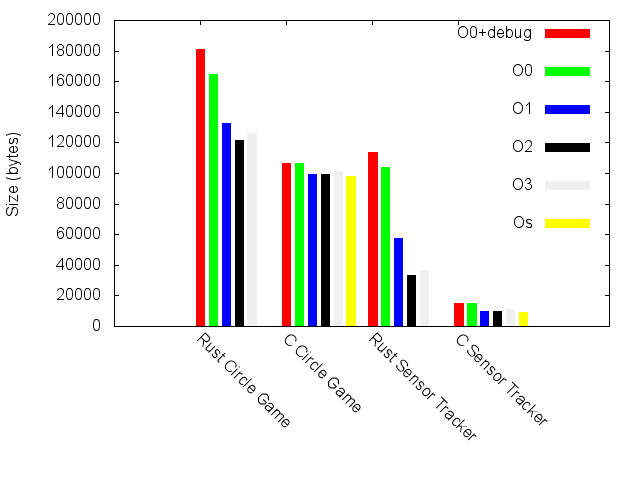
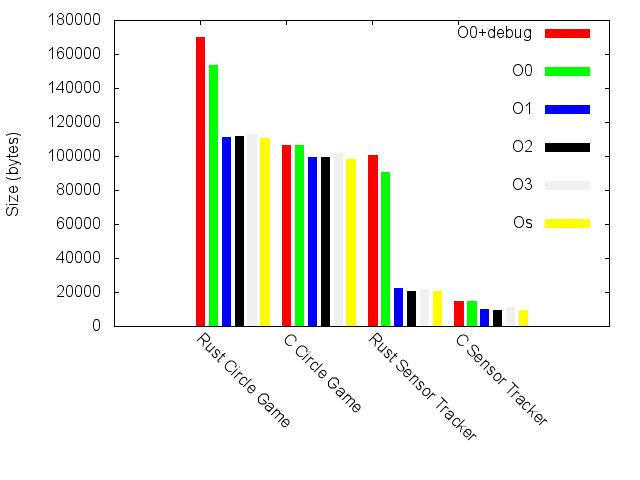
Updated size section with new sizes

diff --git a/results/code-size.tex b/results/code-size.tex
@@ -44,21 +44,26 @@ The parameters used are shown in \autoref{tab:size:params} with their effect.
   \label{tab:size:params}
 \end{table}
 
-Each program in this section is compiled with 5 different settings as given by \autoref{tab:size:settings}.
+Each program in this section is compiled with 6 different settings as given by \autoref{tab:size:settings}.
 \begin{table}[H]
   \centering
-  \begin{tabular}{l|l|l|l|l|l}
-    & \textbf{1} & \textbf{2} & \textbf{3} & \textbf{4} & \textbf{5} \\
+  \begin{tabular}{l|l|l|l|l|l|l}
+    & \textbf{1} & \textbf{2} & \textbf{3} & \textbf{4} & \textbf{5} & \textbf{6} \\
     \hline
-    debug            & true  & false & false & false & false \\
-    debug-assertions & true  & false & false & false & false \\
-    opt-level        & 0     & 0     & 1     & 2     & 2     \\
-    lto              & false & true  & true  & true  & true  \\
+    debug            & true  & false & false & false & false & false \\
+    debug-assertions & true  & false & false & false & false & false \\
+    opt-level        & 0     & 0     & 1     & 2     & 3     & 3     \\
+    lto              & false & true  & true  & true  & true  & true  \\
+    (c code Os)      & false & false & false & false & false & true \\
     \hline
   \end{tabular}
   \caption{Compilation settings}
   \label{tab:size:settings}
 \end{table}
+
+Notice that for the 6th optimization setting, the underlying {\C} sources is compiled with the Os flag.
+For the rest of the settings the same optimization level is used for both the {\rust} and the {\C} code.
+This 6th optimization setting is only used when compiling binaries.
 
 \subsection{Libraries}
 
@@ -137,7 +142,7 @@ As explained in \autoref{sec:impl:booting} {\rust} does not require any addition
 This is evident in \autoref{fig:size:bin:small} where the binaries are the same size when applying optimizations.
 The debug and unoptimized {\rust} build is 10x lager compared to the optimized version.
 
-\autoref{tab:size:c-vs-rust} compares the size of the smallest {\C} and {\rust} binaries for each of the program evaluated.
+\autoref{tab:size:c-vs-rust} compares the size of the smallest {\C} and {\rust} binaries for each of the evaluated programs.
 The number reported is generated by dividing the size of the {\rust} binary by the size of the {\C} binary, giving the factor of witch the {\rust} version is larger than the {\C} version.
 
 \begin{table}[H]
@@ -146,7 +151,7 @@ The number reported is generated by dividing the size of the {\rust} binary by t
     \hline
     Circle Game & Sensor Tracker & Minimal Main \\
     \hline
-    1.22x & 3.57x & 1.03x \\
+    1.22x & 2.20x & 1.03x \\
     \hline
   \end{tabular}
   \caption{{\rust} code size relative to {\C}}
@@ -154,6 +159,37 @@ The number reported is generated by dividing the size of the {\rust} binary by t
 \end{table}
 
 We see from \autoref{tab:size:c-vs-rust} that both the Circle Game and the Minimal Main  {\rust} binaries come quite close to the {\C} binaries in size.
+
+To see which protions of the {\rust} code that make the binary size increase, we now present a break down of the Sensor Tracker builds optimized for size.
+
+\begin{table}[H]
+  \centering
+  \begin{tabular}{l|r|r|l}
+    \textbf{Section}      & \textbf{C (B)} & \textbf{Rust (B)} & \textbf{Relative} \\
+    \hline
+    \textbf{app}          & 1776 & 3964 & 2.23x \\
+    \textbf{binding}      & 0    & 184  & N/A  \\
+    \textbf{emlib}        & 4348 & 4376 & 1.01x \\
+    \textbf{REL}          & 0    & 3516 & N/A  \\
+    \textbf{newlib}       & 2372 & 792  & 0.33x \\
+    \textbf{system}       & 460  & 896  & 1.95x \\
+    \textbf{unwind}       & 0    & 3820 & N/A  \\
+    \hline
+  \end{tabular}
+  \caption{}
+  \label{tab:size:breakdown}
+\end{table}
+
+In \autoref{tab:size:breakdown} we see that there are three major non-constant contributors\footnote{The \textbf{system} section increased with $\sim$2x, but this section will not increase as the complexity of the application is increased.} to the increased size for the {\rust} binary:
+
+\begin{itemize}
+\item The application
+\item Rust Embedded Library
+\item {\rust} expection mechanism (unwind)
+\end{itemize}
+
+We see that the \lib{newlib} implementation is reduced in the {\rust} binary.
+This is due to the \gls{rel} library implementing some of the same functionality as \lib{newlib}, thus the this part of the \lib{newlib} is not included.
 
 %\subsection{Discussion}
 
